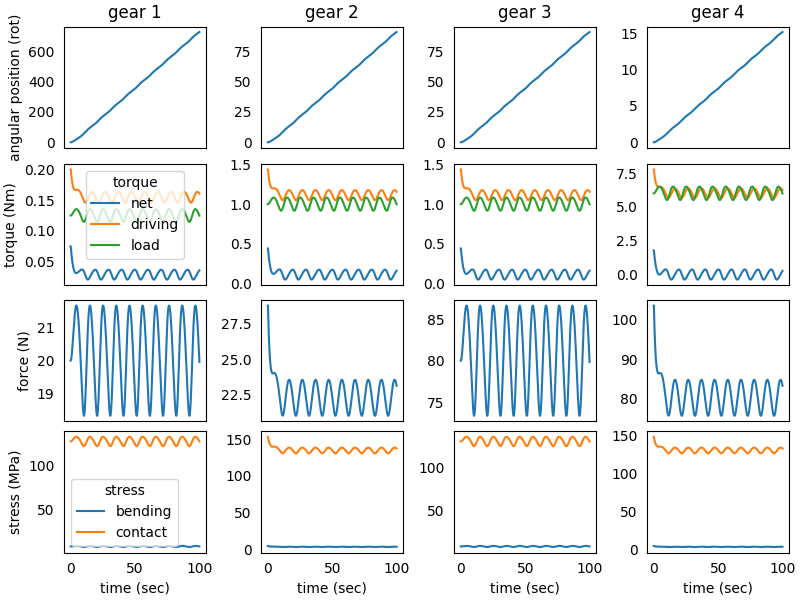
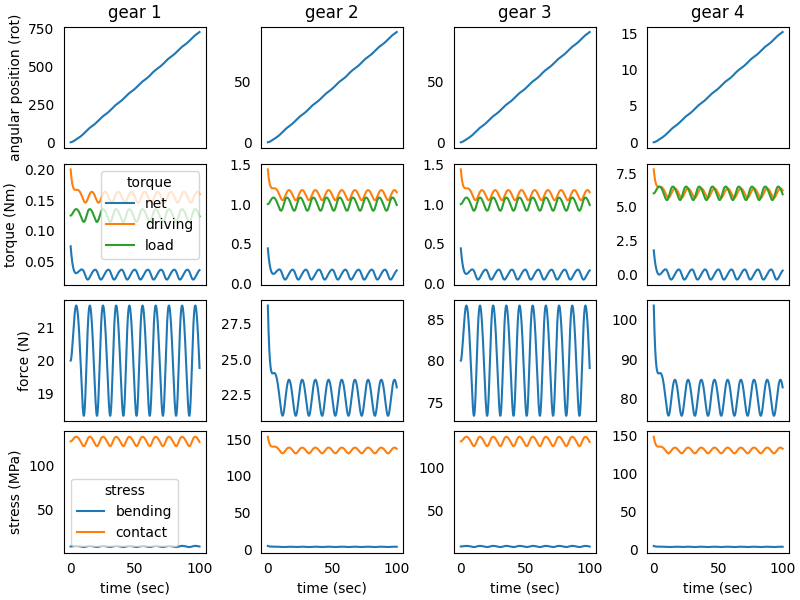
DOC: update documentation examples according to last modifications

diff --git a/docs/source/examples/structural_analysis/structural_analysis.py b/docs/source/examples/structural_analysis/structural_analysis.py
@@ -65,10 +65,9 @@ gear_4.angular_position = AngularPosition(0, 'rad')
 gear_4.angular_speed = AngularSpeed(0, 'rad/s')
 
 
-solver = Solver(time_discretization = TimeInterval(0.1, 'sec'),
-                simulation_time = TimeInterval(100, 'sec'),
-                transmission = transmission)
-solver.run()
+solver = Solver(transmission = transmission)
+solver.run(time_discretization = TimeInterval(0.1, 'sec'),
+           simulation_time = TimeInterval(100, 'sec'))
 
 
 # Result Analysis
@@ -142,10 +141,9 @@ gear_4.angular_position = AngularPosition(0, 'rad')
 gear_4.angular_speed = AngularSpeed(0, 'rad/s')
 
 
-solver = Solver(time_discretization = TimeInterval(0.1, 'sec'),
-                simulation_time = TimeInterval(100, 'sec'),
-                transmission = transmission)
-solver.run()
+solver = Solver(transmission = transmission)
+solver.run(time_discretization = TimeInterval(0.1, 'sec'),
+           simulation_time = TimeInterval(100, 'sec'))
 
 
 # Improved Model Result Analysis

diff --git a/docs/source/examples/simple_transmission_chain/simple_transmission_chain.py b/docs/source/examples/simple_transmission_chain/simple_transmission_chain.py
@@ -59,10 +59,9 @@ gear_4.angular_position = AngularPosition(0, 'rad')
 gear_4.angular_speed = AngularSpeed(0, 'rad/s')
 
 
-solver = Solver(time_discretization = TimeInterval(1, 'sec'),
-                simulation_time = TimeInterval(2000, 'sec'),
-                transmission = transmission)
-solver.run()
+solver = Solver(transmission = transmission)
+solver.run(time_discretization = TimeInterval(1, 'sec'),
+           simulation_time = TimeInterval(2000, 'sec'))
 
 
 # Result Analysis

diff --git a/docs/source/examples/structural_analysis/README.md b/docs/source/examples/structural_analysis/README.md
@@ -116,10 +116,9 @@ are ready to run the simulation::
 from gearpy.units import TimeInterval
 from gearpy.solver import Solver
 
-solver = Solver(time_discretization = TimeInterval(0.1, 'sec'),
-                simulation_time = TimeInterval(100, 'sec'),
-                transmission = transmission)
-solver.run()
+solver = Solver(transmission = transmission)
+solver.run(time_discretization = TimeInterval(0.1, 'sec'),
+           simulation_time = TimeInterval(100, 'sec'))
 ```
 
 ### Results Analysis
@@ -135,12 +134,12 @@ transmission.snapshot(target_time = Time(50, 'sec'))
 ```text
 Mechanical Transmission Status at Time = 50 sec
          angular position (rad) angular speed (rad/s) angular acceleration (rad/s^2) torque (Nm) driving torque (Nm) load torque (Nm) tangential force (N) bending stress (MPa) contact stress (MPa)
-motor               2221.559697             48.412745                       5.886017    0.036284            0.153769         0.117485                  NaN                  NaN                  NaN
-flywheel            2221.559697             48.412745                       5.886017    0.036284            0.153769         0.117485                  NaN                  NaN                  NaN
-gear 1              2221.559697             48.412745                       5.886017    0.036284            0.153769         0.117485            23.497094            23.380193           218.540109
-gear 2               277.694962              6.051593                       0.735752    0.167255            1.107138         0.939884            27.678462            12.696542           237.189281
-gear 3               277.694962              6.051593                       0.735752    0.167255            1.107138         0.939884            187.97675           187.041543           629.467458
-gear 4                46.384583               1.02089                       0.122915    0.339245            5.978548         5.639303           199.284927            94.672174           648.124502
+motor               2226.459971             49.002737                        5.89207    0.036167            0.153206         0.117039                  NaN                  NaN                  NaN
+flywheel            2226.459971             49.002737                        5.89207    0.036167            0.153206         0.117039                  NaN                  NaN                  NaN
+gear 1              2226.459971             49.002737                        5.89207    0.036167            0.153206         0.117039            23.407703            23.291247           218.124014
+gear 2               278.307496              6.125342                       0.736509    0.166774            1.103082         0.936308             27.57705            12.650023           236.754359
+gear 3               278.307496              6.125342                       0.736509    0.166774            1.103082         0.936308           187.261625           186.329975           628.268967
+gear 4                46.384583               1.02089                       0.122751    0.338794            5.956643         5.617849           198.554759            94.325301           646.936069
 ```
 
 We can get a more general view of the system by plotting the time 
@@ -231,12 +230,12 @@ transmission.snapshot(target_time = Time(50, 'sec'))
 ```text
 Mechanical Transmission Status at Time = 50 sec
          angular position (rad) angular speed (rad/s) angular acceleration (rad/s^2) torque (Nm) driving torque (Nm) load torque (Nm) tangential force (N) bending stress (MPa) contact stress (MPa)
-motor               2217.156919             47.314348                         5.4848    0.036905            0.154818         0.117913                  NaN                  NaN                  NaN
-flywheel            2217.156919             47.314348                         5.4848    0.036905            0.154818         0.117913                  NaN                  NaN                  NaN
-gear 1              2217.156919             47.314348                         5.4848    0.036905            0.154818         0.117913            18.866154             7.508917           123.849929
-gear 2               277.144615              5.914293                         0.6856    0.171383            1.114691         0.943308             22.29381             4.090607           134.631358
-gear 3               277.144615              5.914293                         0.6856    0.171383            1.114691         0.943308            75.464616             7.508917           126.122595
-gear 4                46.290493              0.997237                       0.115219    0.359483            6.019329         5.659846            80.257717             3.812718           130.066249
+motor               2221.943659             47.867398                       5.557362    0.036841             0.15429         0.117449                  NaN                  NaN                  NaN
+flywheel            2221.943659             47.867398                       5.557362    0.036841             0.15429         0.117449                  NaN                  NaN                  NaN
+gear 1              2221.943659             47.867398                       5.557362    0.036841             0.15429         0.117449            18.791889             7.479359           123.605927
+gear 2               277.742957              5.983425                        0.69467    0.171294            1.110888         0.939594             22.21776             4.076653           134.401531
+gear 3               277.742957              5.983425                        0.69467    0.171294            1.110888         0.939594            75.167557             7.479359           125.874115
+gear 4                46.290493              0.997237                       0.115778    0.361229            5.998795         5.637567            79.983937             3.799712           129.844215
 ```
 
 We can also get the same plot as before, in order to make a complete 

diff --git a/docs/source/examples/simple_transmission_chain/README.md b/docs/source/examples/simple_transmission_chain/README.md
@@ -99,10 +99,9 @@ are ready to run the simulation::
 from gearpy.units import TimeInterval
 from gearpy.solver import Solver
 
-solver = Solver(time_discretization = TimeInterval(1, 'sec'),
-                simulation_time = TimeInterval(2000, 'sec'),
-                transmission = transmission)
-solver.run()
+solver = Solver(transmission = transmission)
+solver.run(time_discretization = TimeInterval(1, 'sec'), 
+           simulation_time = TimeInterval(2000, 'sec'))
 ```
 
 ### Results Analysis
@@ -117,13 +116,13 @@ transmission.snapshot(target_time = Time(1000, 'sec'))
 
 ```text
 Mechanical Transmission Status at Time = 1000 sec
-         angular position (rad) angular speed (rad/s) angular acceleration (rad/s^2) torque (Nm) driving torque (Nm) load torque (Nm) tangential force (N) bending stress (MPa) contact stress (MPa)
-motor             459683.165617            570.175248                       0.019532    0.001199            0.006199            0.005                  NaN                  NaN                  NaN
-flywheel          459683.165617            570.175248                       0.019532    0.001199            0.006199            0.005                  NaN                  NaN                  NaN
-gear 1            459683.165617            570.175248                       0.019532    0.001199            0.006199            0.005                  NaN                  NaN                  NaN
-gear 2            229841.582808            285.087624                       0.009766    0.001158            0.011158             0.01                  NaN                  NaN                  NaN
-gear 3            229841.582808            285.087624                       0.009766    0.001158            0.011158             0.01                  NaN                  NaN                  NaN
-gear 4             76708.893383             95.032447                       0.003239    0.000126            0.030126             0.03                  NaN                  NaN                  NaN
+         angular position (rad) angular speed (rad/s) angular acceleration (rad/s^2) torque (Nm) driving torque (Nm) load torque (Nm)
+motor             460253.360299            570.194682                       0.019337    0.001199            0.006199            0.005
+flywheel          460253.360299            570.194682                       0.019337    0.001199            0.006199            0.005
+gear 1            460253.360299            570.194682                       0.019337    0.001199            0.006199            0.005
+gear 2            230126.680149            285.097341                       0.009669    0.001158            0.011158             0.01
+gear 3            230126.680149            285.097341                       0.009669    0.001158            0.011158             0.01
+gear 4             76708.893383             95.032447                       0.003223    0.000126            0.030126             0.03
 ```
 
 The default unit used for torques are not so convenient in this case, so 
@@ -138,13 +137,13 @@ transmission.snapshot(target_time = Time(1000, 'sec'),
 
 ```text
 Mechanical Transmission Status at Time = 1000 sec
-         angular position (rad) angular speed (rad/s) angular acceleration (rad/s^2) torque (mNm) driving torque (mNm) load torque (mNm) tangential force (N) bending stress (MPa) contact stress (MPa)
-motor             459683.165617            570.175248                       0.019532     1.198832             6.198832               5.0                  NaN                  NaN                  NaN
-flywheel          459683.165617            570.175248                       0.019532     1.198832             6.198832               5.0                  NaN                  NaN                  NaN
-gear 1            459683.165617            570.175248                       0.019532     1.198832             6.198832               5.0                  NaN                  NaN                  NaN
-gear 2            229841.582808            285.087624                       0.009766     1.157897            11.157897              10.0                  NaN                  NaN                  NaN
-gear 3            229841.582808            285.087624                       0.009766     1.157897            11.157897              10.0                  NaN                  NaN                  NaN
-gear 4             76708.893383             95.032447                       0.003239     0.126322            30.126322              30.0                  NaN                  NaN                  NaN
+         angular position (rad) angular speed (rad/s) angular acceleration (rad/s^2) torque (mNm) driving torque (mNm) load torque (mNm)
+motor             460253.360299            570.194682                       0.019337     1.198702             6.198702               5.0
+flywheel          460253.360299            570.194682                       0.019337     1.198702             6.198702               5.0
+gear 1            460253.360299            570.194682                       0.019337     1.198702             6.198702               5.0
+gear 2            230126.680149            285.097341                       0.009669     1.157664            11.157664              10.0
+gear 3            230126.680149            285.097341                       0.009669     1.157664            11.157664              10.0
+gear 4             76708.893383             95.032447                       0.003223     0.125692            30.125692              30.0
 ```
 
 Notice that the load torque applied on the *gear 4* is exactly the 
